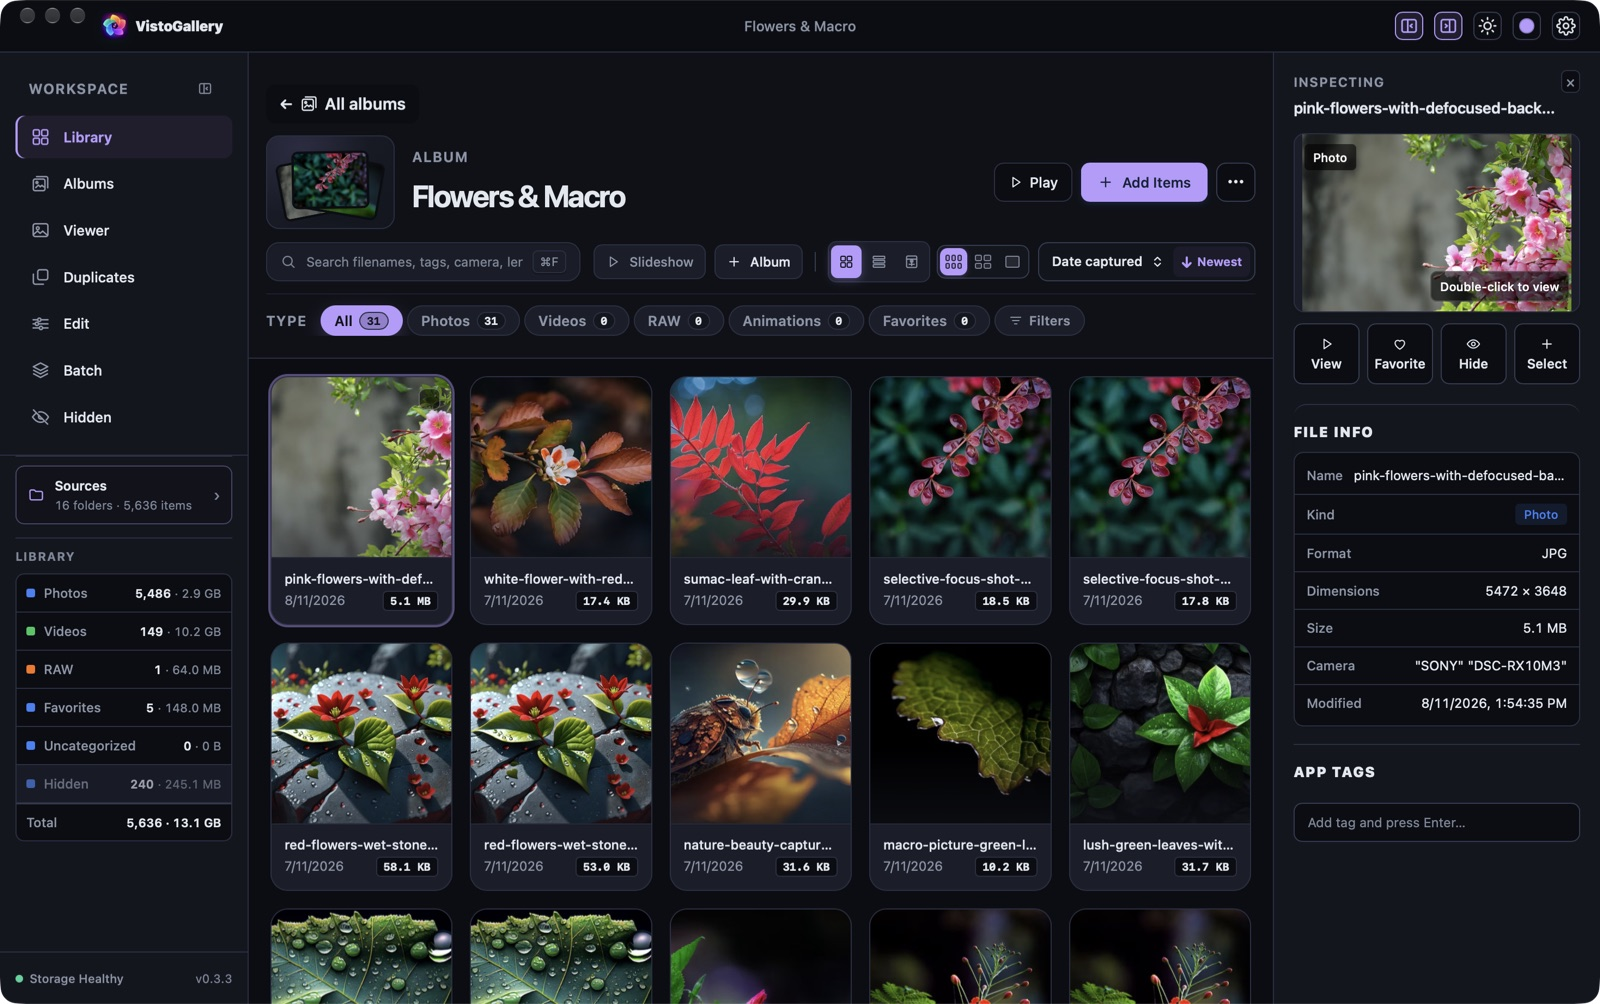
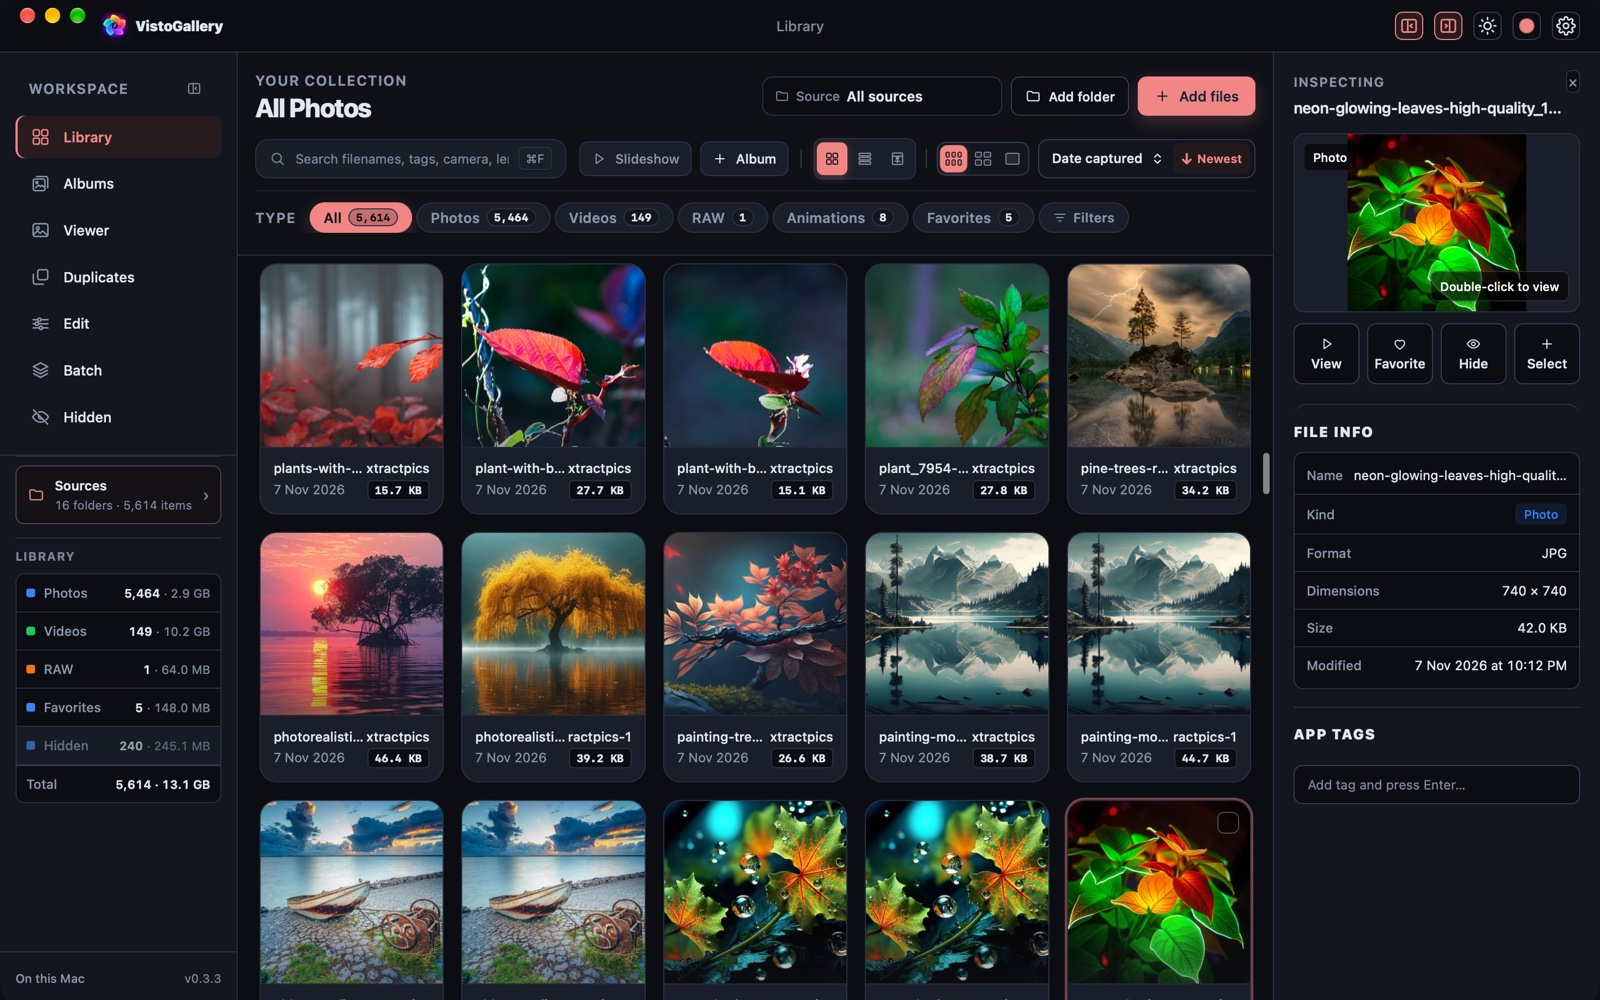
docs: use the main library grid as the README hero
The hero showed an album view, which read as the whole app. Capture the default Library / All Photos screen instead, with type filters, search and the inspector, in both themes. Keep the album shot in the tour as a new "Album view" section.

diff --git a/README.md b/README.md
@@ -19,9 +19,10 @@
 <p align="center">
   <picture>
     <source media="(prefers-color-scheme: dark)" srcset="docs/screenshots/library-dark.jpg">
-    <img src="docs/screenshots/library-light.jpg" alt="The VistoGallery library: a sidebar with sources and library totals, a grid of photos in an album, and an inspector showing file details" width="900">
+    <img src="docs/screenshots/library-light.jpg" alt="The VistoGallery library: a sidebar with sources and library totals, the All Photos grid with type filters and search, and an inspector showing the selected photo's details" width="900">
   </picture>
 </p>
+<p align="center"><sub>Shown in your GitHub theme. Every screen in the <a href="#tour">tour</a> appears in both light and dark.</sub></p>
 
 VistoGallery points at the folders you already have. It never copies, moves or uploads your files; it builds a local catalog next to them so you can browse thousands of photos and videos quickly, organize them, and find duplicates.
 
@@ -55,46 +56,91 @@ VistoGallery points at the folders you already have. It never copies, moves or u
 
 ### Albums and Smart Albums
 
-<picture>
-  <source media="(prefers-color-scheme: dark)" srcset="docs/screenshots/albums-dark.jpg">
-  <img src="docs/screenshots/albums-light.jpg" alt="Albums screen with a row of Smart Albums above a grid of regular albums" width="900">
-</picture>
+<table>
+  <tr>
+    <th>Light</th>
+    <th>Dark</th>
+  </tr>
+  <tr>
+    <td><img src="docs/screenshots/albums-light.jpg" alt="Albums screen with a row of Smart Albums above a grid of regular albums (light theme)" width="440"></td>
+    <td><img src="docs/screenshots/albums-dark.jpg" alt="Albums screen with a row of Smart Albums above a grid of regular albums (dark theme)" width="440"></td>
+  </tr>
+</table>
 
 Smart Albums are saved filters (for example "5-star picks" or "Sunsets") that stay current as your library changes.
 
+### Album view
+
+<table>
+  <tr>
+    <th>Light</th>
+    <th>Dark</th>
+  </tr>
+  <tr>
+    <td><img src="docs/screenshots/album-view-light.jpg" alt="An album's photos in the library grid, with the inspector open on a selected photo (light theme)" width="440"></td>
+    <td><img src="docs/screenshots/album-view-dark.jpg" alt="An album's photos in the library grid, with the inspector open on a selected photo (dark theme)" width="440"></td>
+  </tr>
+</table>
+
+Open an album to see just its photos. The inspector follows the selected item and shows its file details, tags and actions.
+
 ### Viewer
 
-<picture>
-  <source media="(prefers-color-scheme: dark)" srcset="docs/screenshots/viewer-dark.jpg">
-  <img src="docs/screenshots/viewer-light.jpg" alt="Full-size photo viewer with zoom, rotate, favorite and slideshow controls and a filmstrip of the folder" width="900">
-</picture>
+<table>
+  <tr>
+    <th>Light</th>
+    <th>Dark</th>
+  </tr>
+  <tr>
+    <td><img src="docs/screenshots/viewer-light.jpg" alt="Full-size photo viewer with zoom, rotate, favorite and slideshow controls and a filmstrip of the folder (light theme)" width="440"></td>
+    <td><img src="docs/screenshots/viewer-dark.jpg" alt="Full-size photo viewer with zoom, rotate, favorite and slideshow controls and a filmstrip of the folder (dark theme)" width="440"></td>
+  </tr>
+</table>
 
 Zoom, rotate, favorite and hide without leaving the photo. The filmstrip shows the rest of the folder.
 
 ### Edit
 
-<picture>
-  <source media="(prefers-color-scheme: dark)" srcset="docs/screenshots/edit-dark.jpg">
-  <img src="docs/screenshots/edit-light.jpg" alt="Editor with light and color sliders, crop tools, and save draft, save copy and restore original actions" width="900">
-</picture>
+<table>
+  <tr>
+    <th>Light</th>
+    <th>Dark</th>
+  </tr>
+  <tr>
+    <td><img src="docs/screenshots/edit-light.jpg" alt="Editor with light and color sliders, crop tools, and save draft, save copy and restore original actions (light theme)" width="440"></td>
+    <td><img src="docs/screenshots/edit-dark.jpg" alt="Editor with light and color sliders, crop tools, and save draft, save copy and restore original actions (dark theme)" width="440"></td>
+  </tr>
+</table>
 
 Adjustments are saved as drafts. Save a copy, or replace the file knowing the original is kept and can be restored.
 
 ### Duplicates
 
-<picture>
-  <source media="(prefers-color-scheme: dark)" srcset="docs/screenshots/duplicates-dark.jpg">
-  <img src="docs/screenshots/duplicates-light.jpg" alt="Compare dialog showing a keeper and a copy side by side with a table of differing metadata" width="900">
-</picture>
+<table>
+  <tr>
+    <th>Light</th>
+    <th>Dark</th>
+  </tr>
+  <tr>
+    <td><img src="docs/screenshots/duplicates-light.jpg" alt="Compare dialog showing a keeper and a copy side by side with a table of differing metadata (light theme)" width="440"></td>
+    <td><img src="docs/screenshots/duplicates-dark.jpg" alt="Compare dialog showing a keeper and a copy side by side with a table of differing metadata (dark theme)" width="440"></td>
+  </tr>
+</table>
 
 Compare a keeper and its copies side by side, with synced zoom and a field-by-field diff, before moving copies to the Trash.
 
 ### Sources
 
-<picture>
-  <source media="(prefers-color-scheme: dark)" srcset="docs/screenshots/sources-dark.jpg">
-  <img src="docs/screenshots/sources-light.jpg" alt="Sources dialog listing library folders with item counts and sizes" width="900">
-</picture>
+<table>
+  <tr>
+    <th>Light</th>
+    <th>Dark</th>
+  </tr>
+  <tr>
+    <td><img src="docs/screenshots/sources-light.jpg" alt="Sources dialog listing library folders with item counts and sizes (light theme)" width="440"></td>
+    <td><img src="docs/screenshots/sources-dark.jpg" alt="Sources dialog listing library folders with item counts and sizes (dark theme)" width="440"></td>
+  </tr>
+</table>
 
 Add, rescan or remove folders. Removing a source only removes it from the catalog; your files stay on disk.
 
